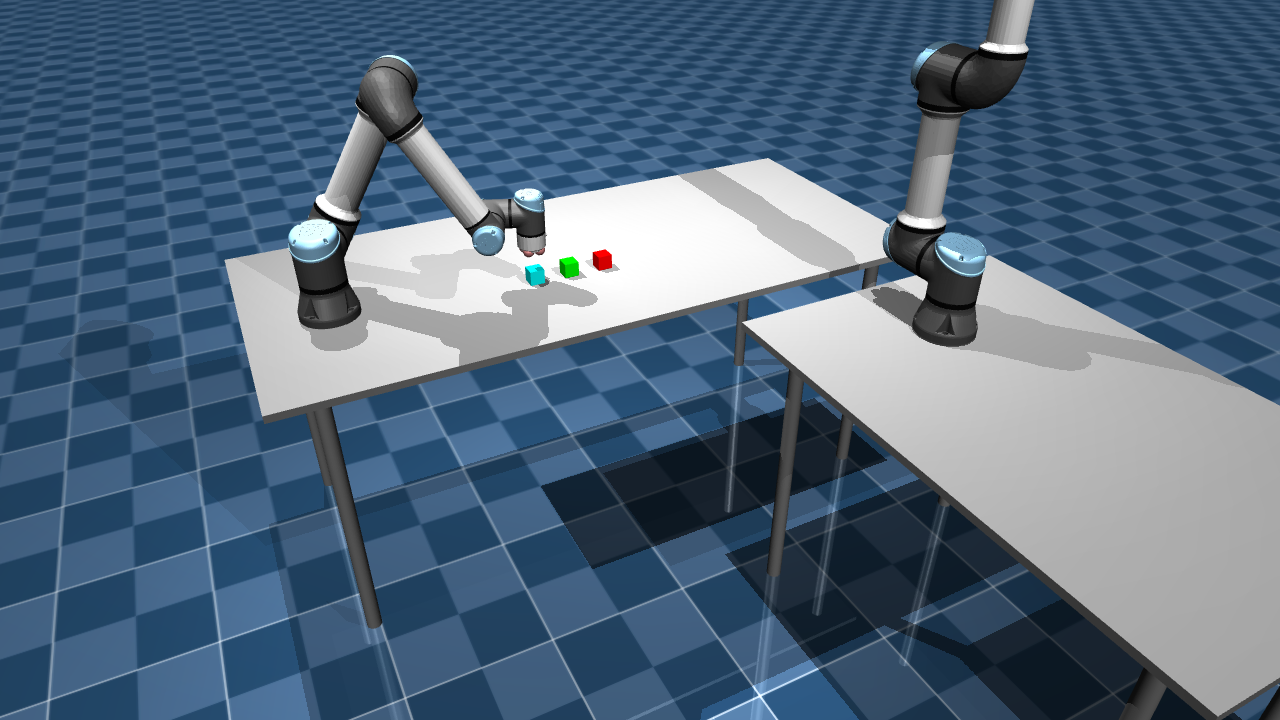
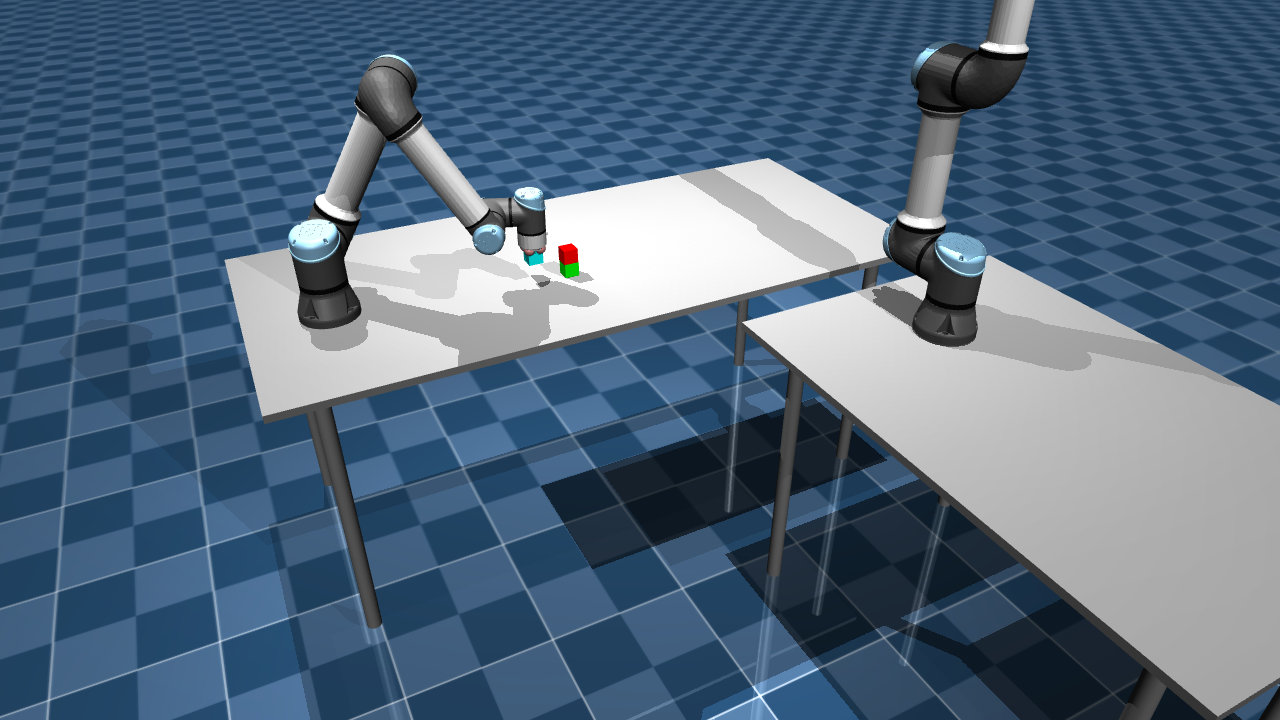
fixed bug: pick up works in vizualization

Changed region(s): [[0.3438, 0.2444, 0.5, 0.3972], [0.3125, 0.1528, 0.3438, 0.1833]]

diff --git a/clair_robotics_stack/ur/mujoco_simulation/sim_testing.py b/clair_robotics_stack/ur/mujoco_simulation/sim_testing.py
@@ -38,29 +38,29 @@ frames.append(env.render())
 executor.pick_up("ur5e_2", -0.7, -0.6, 0.15)
 frames.append(env.render())
 
-# executor.plan_and_move_to_xyz_facing_down("ur5e_2", [-0.7, -0.7, 0.15])
-# frames.append(env.render())
+executor.plan_and_move_to_xyz_facing_down("ur5e_2", [-0.7, -0.7, 0.15])
+frames.append(env.render())
 
-# executor.put_down("ur5e_2", -0.7, -0.7, 0.20)
-# frames.append(env.render())
+executor.put_down("ur5e_2", -0.7, -0.7, 0.20)
+frames.append(env.render())
 
-# executor.plan_and_move_to_xyz_facing_down("ur5e_2", [-0.7, -0.8, 0.15])
-# frames.append(env.render())
+executor.plan_and_move_to_xyz_facing_down("ur5e_2", [-0.7, -0.8, 0.15])
+frames.append(env.render())
 
-# executor.pick_up("ur5e_2", -0.7, -0.8, 0.15)
-# frames.append(env.render())
+executor.pick_up("ur5e_2", -0.7, -0.8, 0.15)
+frames.append(env.render())
 
-# executor.plan_and_move_to_xyz_facing_down("ur5e_2", [-0.7, -0.8, 0.25])
-# frames.append(env.render())
+executor.plan_and_move_to_xyz_facing_down("ur5e_2", [-0.7, -0.8, 0.25])
+frames.append(env.render())
 
-# executor.plan_and_move_to_xyz_facing_down("ur5e_2", [-0.7, -0.6, 0.15])
-# frames.append(env.render())
+executor.plan_and_move_to_xyz_facing_down("ur5e_2", [-0.7, -0.6, 0.15])
+frames.append(env.render())
 
-# executor.put_down("ur5e_2", -0.7, -0.6, 0.20)
-# frames.append(env.render())
+executor.put_down("ur5e_2", -0.7, -0.6, 0.20)
+frames.append(env.render())
 
 print('here')
-print('frames:', frames)
+# print('frames:', frames)
 # print('frames shape:', np.array(frames).shape)
 print('here2')
 framerate = 60

diff --git a/clair_robotics_stack/ur/mujoco_simulation/mujoco_env/sim_env.py b/clair_robotics_stack/ur/mujoco_simulation/mujoco_env/sim_env.py
@@ -92,13 +92,13 @@ class SimEnv:
     def step(self, target_joint_pos, gripper_closed=None):
         # if reset_pid:
         #    ( self._pid_controller.reset_endpoint(target_joint_pos)
-        print('start time of step:', time.time())
+        # print('start time of step:', time.time())
         if gripper_closed is None:
             gripper_closed = self.gripper_state_closed
         self.gripper_state_closed = gripper_closed
 
         self._env_step(target_joint_pos)
-        print('self.robots_joint_pos in step:', self.robots_joint_pos)
+        # print('self.robots_joint_pos in step:', self.robots_joint_pos)
 
         self._clip_joint_velocities()
 
@@ -108,16 +108,16 @@ class SimEnv:
                 self._grasp_manager.update_grasped_object_pose()
             else:
                 is_close_enough = self._grasp_manager.grasp_block_if_close_enough()
-                print('is_close_enough:', is_close_enough)
+                # print('is_close_enough:', is_close_enough)
         else:
-            print('gripper is not closed, releasing object')
+            # print('gripper is not closed, releasing object')
             self._grasp_manager.release_object()
 
         if self.render_mode == "human":
             self._env.render()
 
         state = self.get_state()
-        print('state in end of step:', state)
+        # print('state in end of step:', state)
         return self.get_state()
 
     def simulate_steps(self, n_steps):

diff --git a/clair_robotics_stack/ur/mujoco_simulation/motion_planning/motion_executor.py b/clair_robotics_stack/ur/mujoco_simulation/motion_planning/motion_executor.py
@@ -145,6 +145,7 @@ class MotionExecutor:
             # print("target_joints:", target_joints)
             if np.allclose(current_joints, target_joints, atol=tolerance):
                 print('got to the point')
+                print('allclose in num_step:', step)
                 break
 
         self.update_all_robots_configs_in_mp()
@@ -440,7 +441,7 @@ class MotionExecutor:
         above_block_config = self.env.robots_joint_pos[agent]
 
         res_moveL = self.moveL(agent,
-                   (x, y, start_height-0.05),
+                   (x, y, start_height-0.1),
                    speed=2.,
                    tolerance=0.003,
                    max_steps=400)

diff --git a/clair_robotics_stack/ur/mujoco_simulation/mujoco_env/rendering/offscreen_renderer.py b/clair_robotics_stack/ur/mujoco_simulation/mujoco_env/rendering/offscreen_renderer.py
@@ -31,7 +31,8 @@ class OffscreenRenderer:
             segmentation = self.renderer.render()
             return segmentation
         else:
-            return rgb, depth
+            # return rgb, depth
+            return rgb
 
     def close(self):
         # No need to explicitly close the renderer in newer MuJoCo versions
